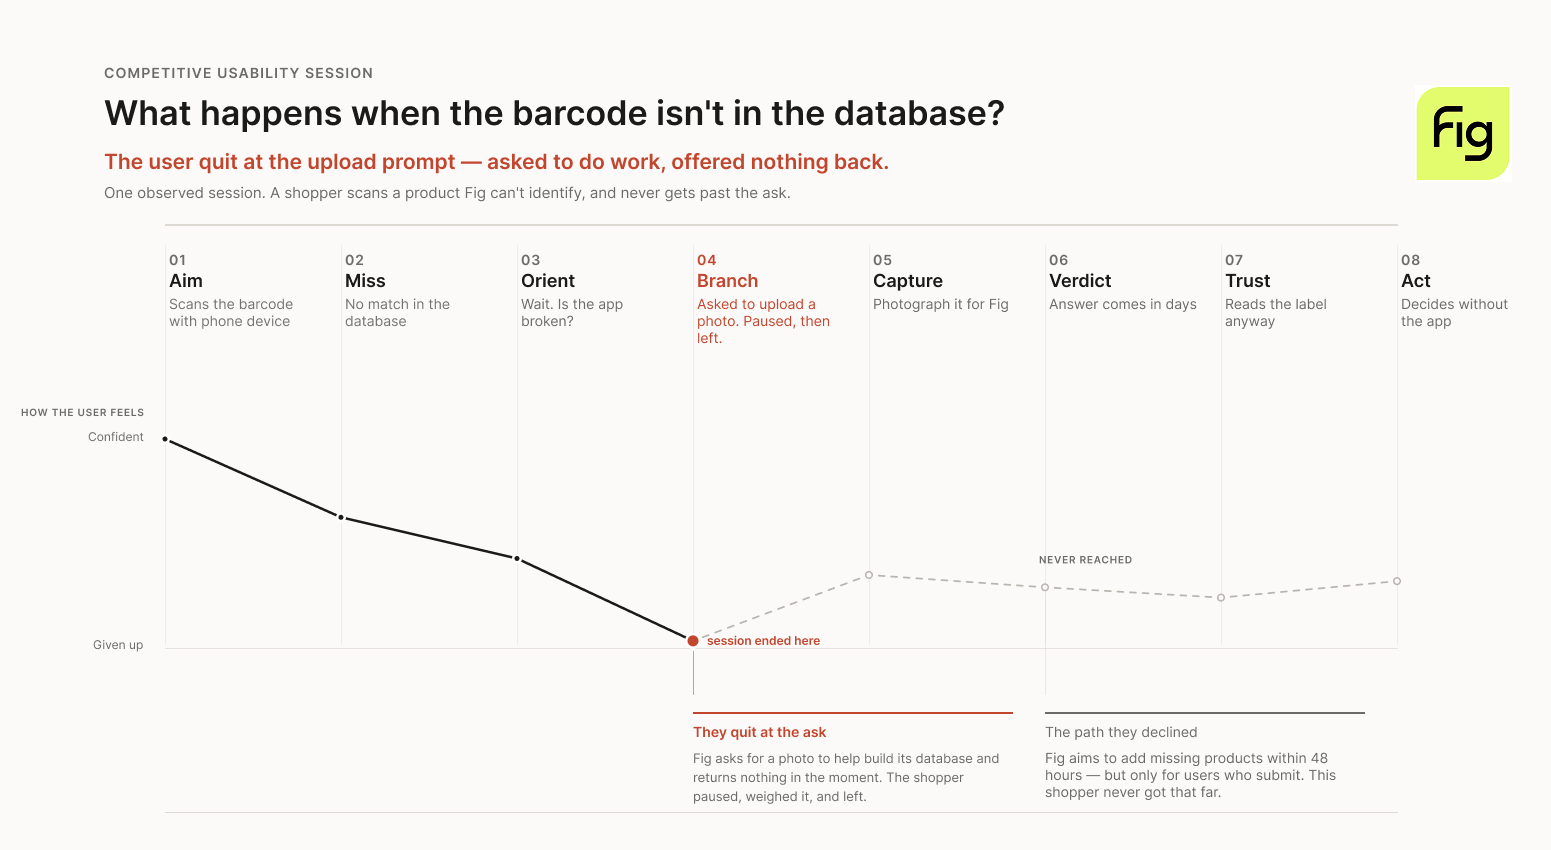
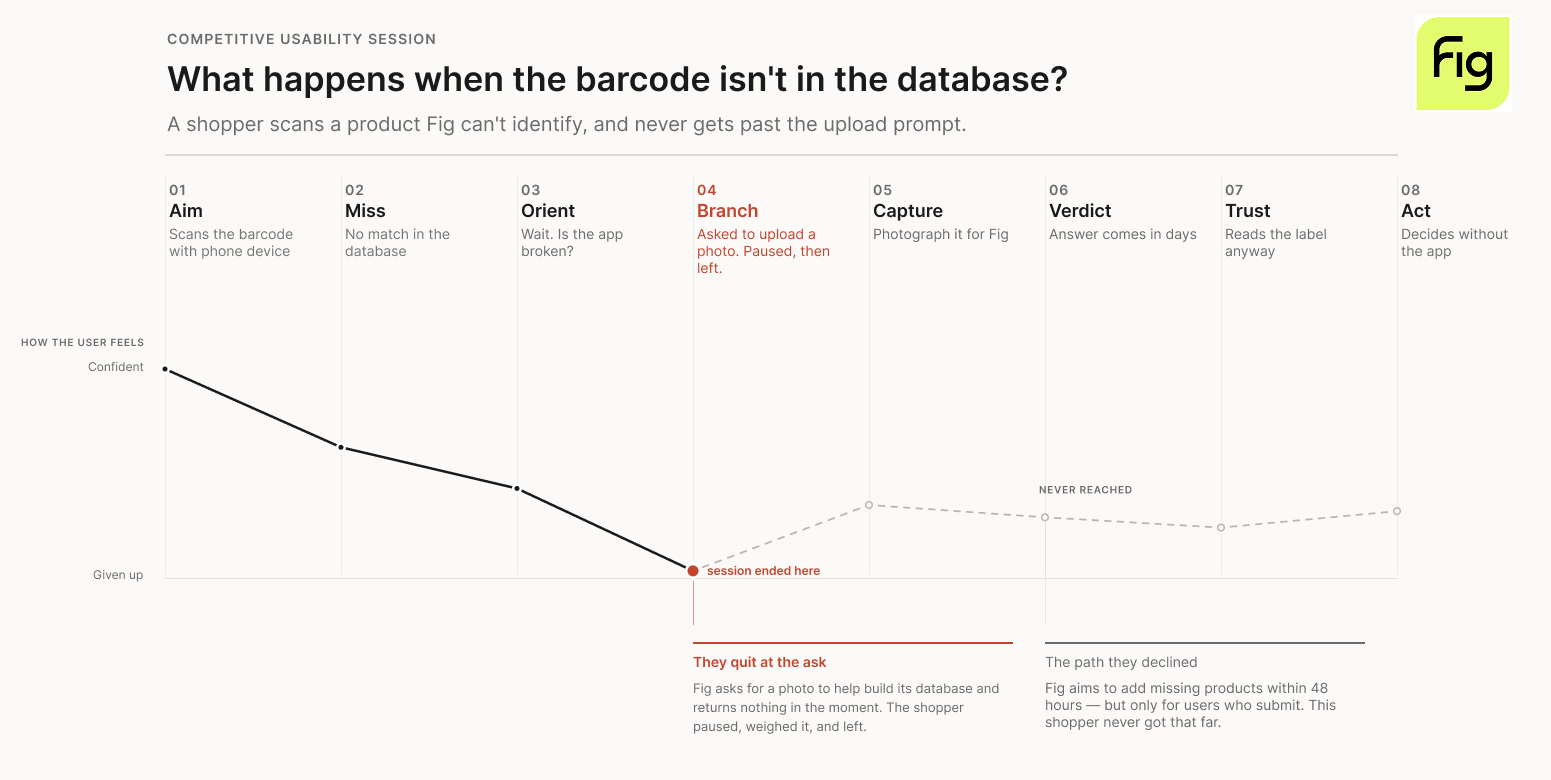
ideation changes in foodlens

diff --git a/main.js b/main.js
@@ -217,16 +217,32 @@ const cases = [
     overview: 'FoodLens is an allergy-checking, hands-free app that uses smart glasses to surface food allergen information, so people don\'t have to stop and pull out their phone to check ingredients.',
     hmw: 'How might we use smart glasses to make food allergy information easily accessible?',
     problem: 'Existing allergy apps like Fig require people to <span class="cs-highlight">stop and pull out their phone</span> to check ingredients. FoodLens explores what that experience looks like through <span class="cs-highlight">smart glasses</span>, without needing to check a phone constantly.',
-    research: 'I watched someone use Fig to check an unrecognized product, then ran the same task on my own build, to find where barcode-based checking breaks down.',
+    research: 'I observed someone use Fig, the food allergy detecting app, to check an unrecognized product, then ran the same task on my own build, to find where barcode-based checking breaks down.',
     insights: [
-      { q: 'Barcode scanning is fast but fragile', a: 'It fails on unlabeled or foreign food whose barcode isn\'t in the database' },
+      { q: 'Barcode scanning is fast but still fails', a: 'It fails on unlabeled or foreign food whose barcode isn\'t in the database' },
       { q: 'A failed scan leaves users stuck', a: 'When Fig can\'t recognize a product it asks users to photograph it to help build the database, but gives them no information in return' },
     ],
     researchVisual: { src: 'images_fl/Foodlens_Research.png', label: 'From observed session' },
     process: 'I explored two approaches for how scanning should work:',
     steps: [
-      { title: 'Barcode approach', body: 'Scan the product barcode for an instant allergen readout. Testing surfaced a gap: foreign products whose barcodes aren\'t in the database. I tried a travel toggle to switch modes.' },
-      { title: 'Hybrid approach', body: 'Support barcode and ingredient-label scanning together. After testing it was simpler to include both, since foreign goods are still produced and sold locally.' },
+      {
+        title: 'Barcode approach',
+        body: 'Scan the product barcode for an instant allergen readout. Testing surfaced a gap: foreign products whose barcodes aren\'t in the database. I tried a travel toggle to switch modes.',
+        imgs: [{ src: 'images_fl/ideation1.png', label: 'Low-fi wireframes' }],
+        tradeoffs: [
+          { type: 'pro', text: 'Fast, familiar interaction — scan and get an instant readout' },
+          { type: 'con', text: 'Fails on foreign or unlabeled products whose barcode isn\'t in the database' },
+        ],
+      },
+      {
+        title: 'Hybrid approach',
+        body: 'Support barcode and ingredient-label scanning together. After testing it was simpler to include both, since foreign goods are still produced and sold locally.',
+        imgs: [{ src: 'images_fl/ideation2.png', label: 'High-fi screens' }],
+        tradeoffs: [
+          { type: 'pro', text: 'Always returns an answer — falls back to reading the ingredient label directly' },
+          { type: 'con', text: 'More to build and keep in sync: two scan modes and a mode switch' },
+        ],
+      },
     ],
     outcome: 'FoodLens is hands-free by default and falls back to the phone camera when the smart glasses aren\'t connected.',
     flows: [

diff --git a/styles.css b/styles.css
@@ -1627,12 +1627,13 @@ footer {
   font-size: 26px;
 }
 .cs-idea-fig figcaption {
-  margin-top: 6px;
+  margin-top: 8px;
+  font-family: 'Nunito', sans-serif;
   font-size: 14px;
-  color: var(--muted);
+  font-weight: 700;
+  color: var(--ink2);
   line-height: 1.4;
 }
-.cs-idea-fig:not(.is-missing) figcaption { display: none; }
 .cs-idea-trail {
   margin-top: 16px;
   display: grid;
